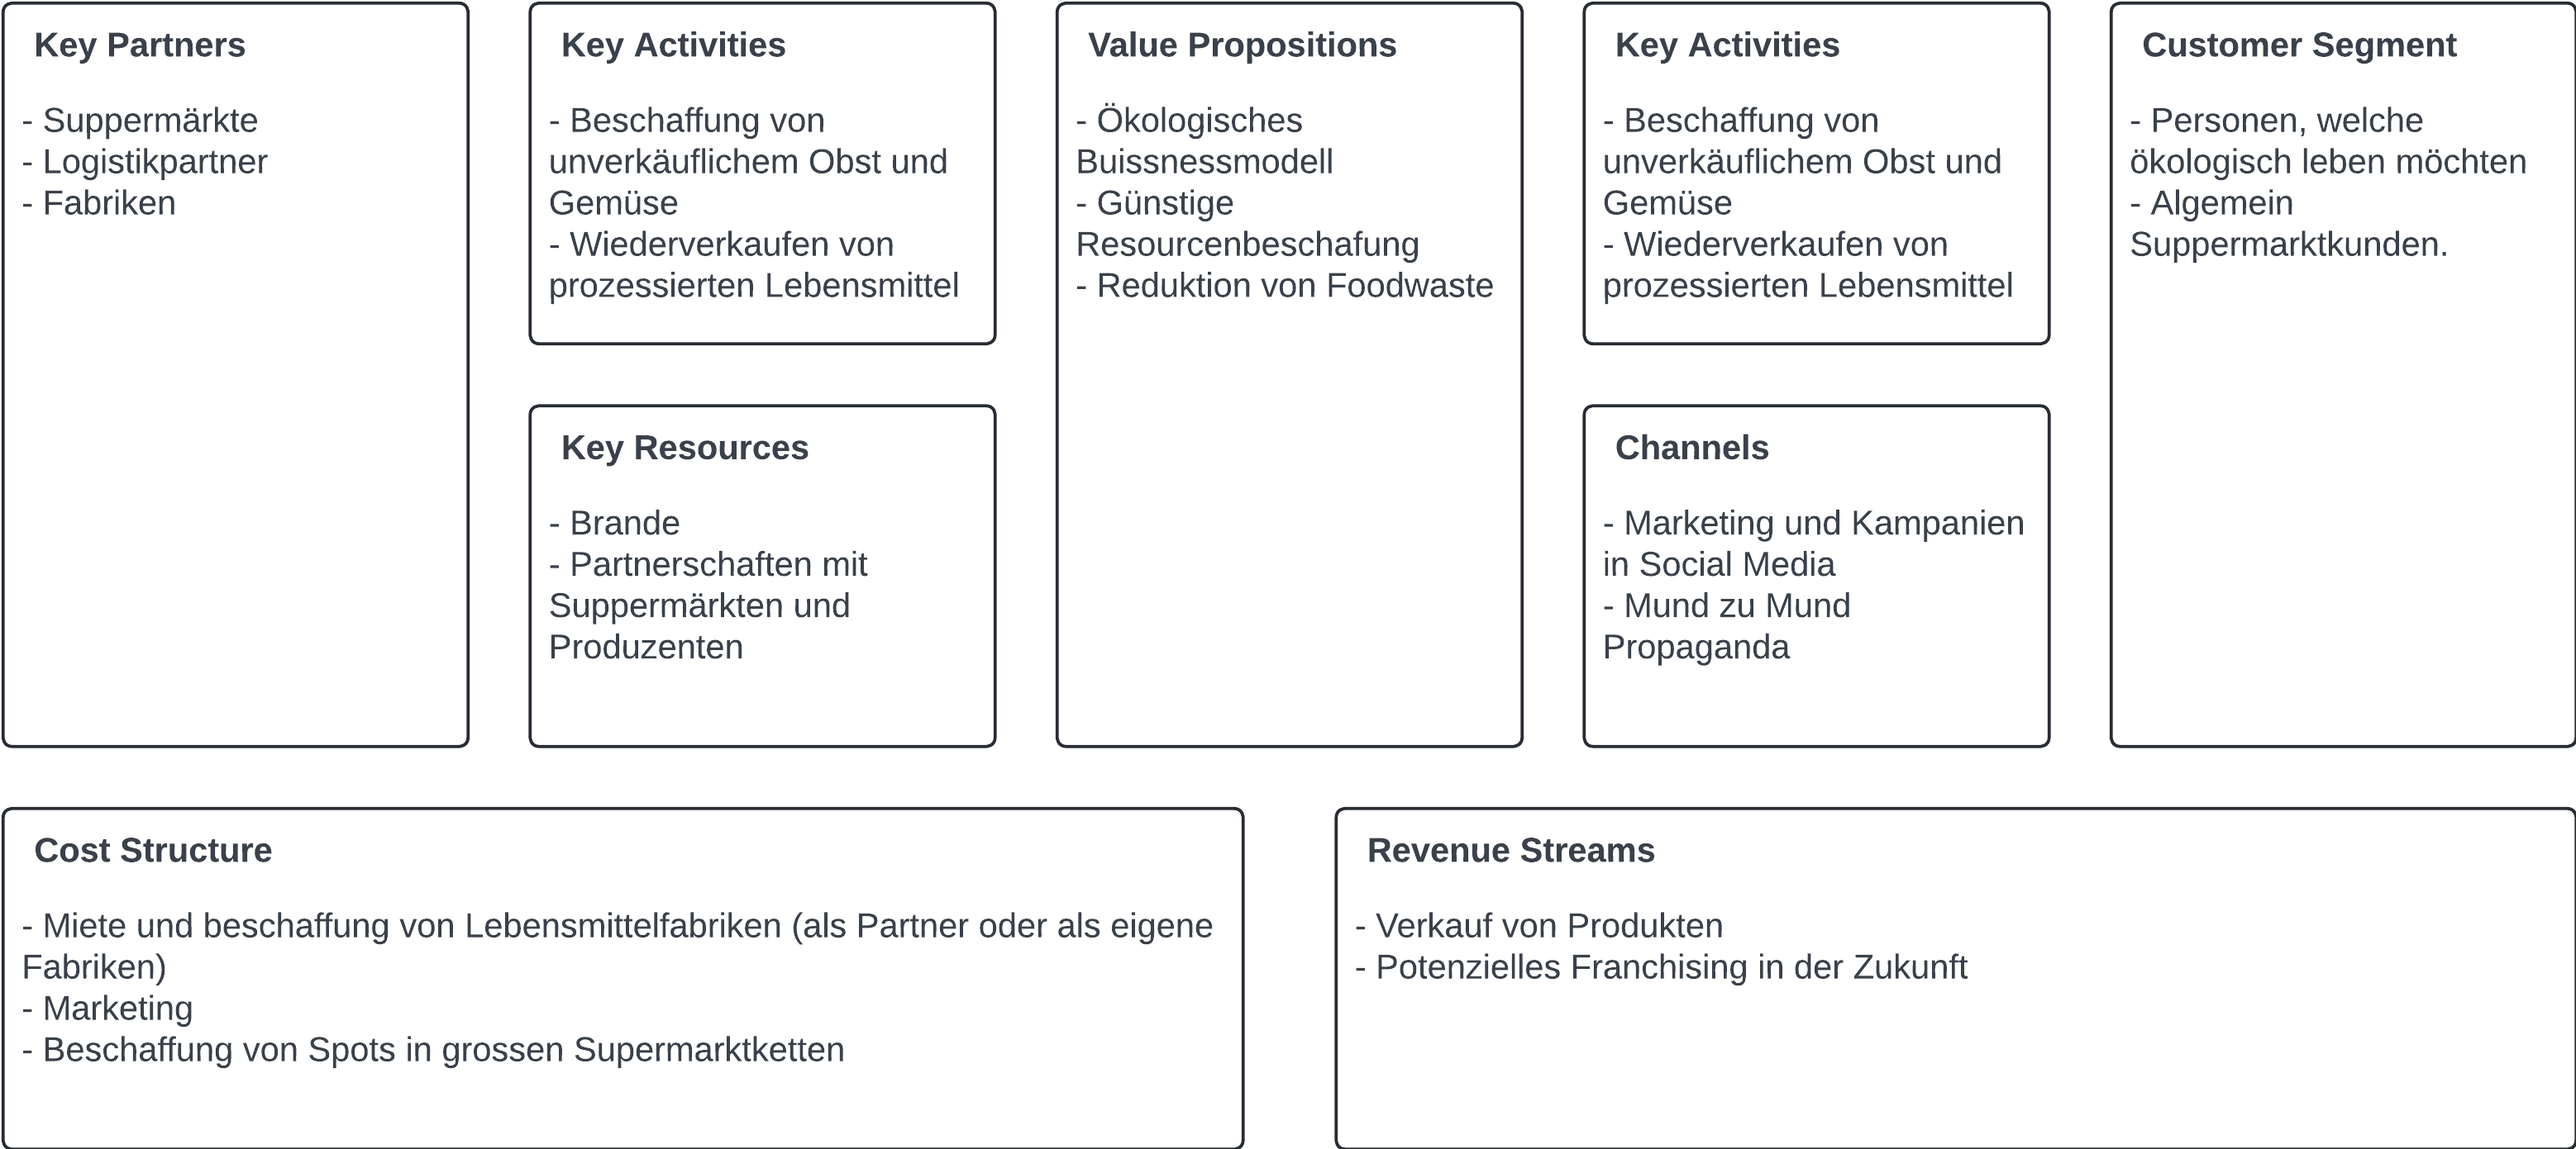
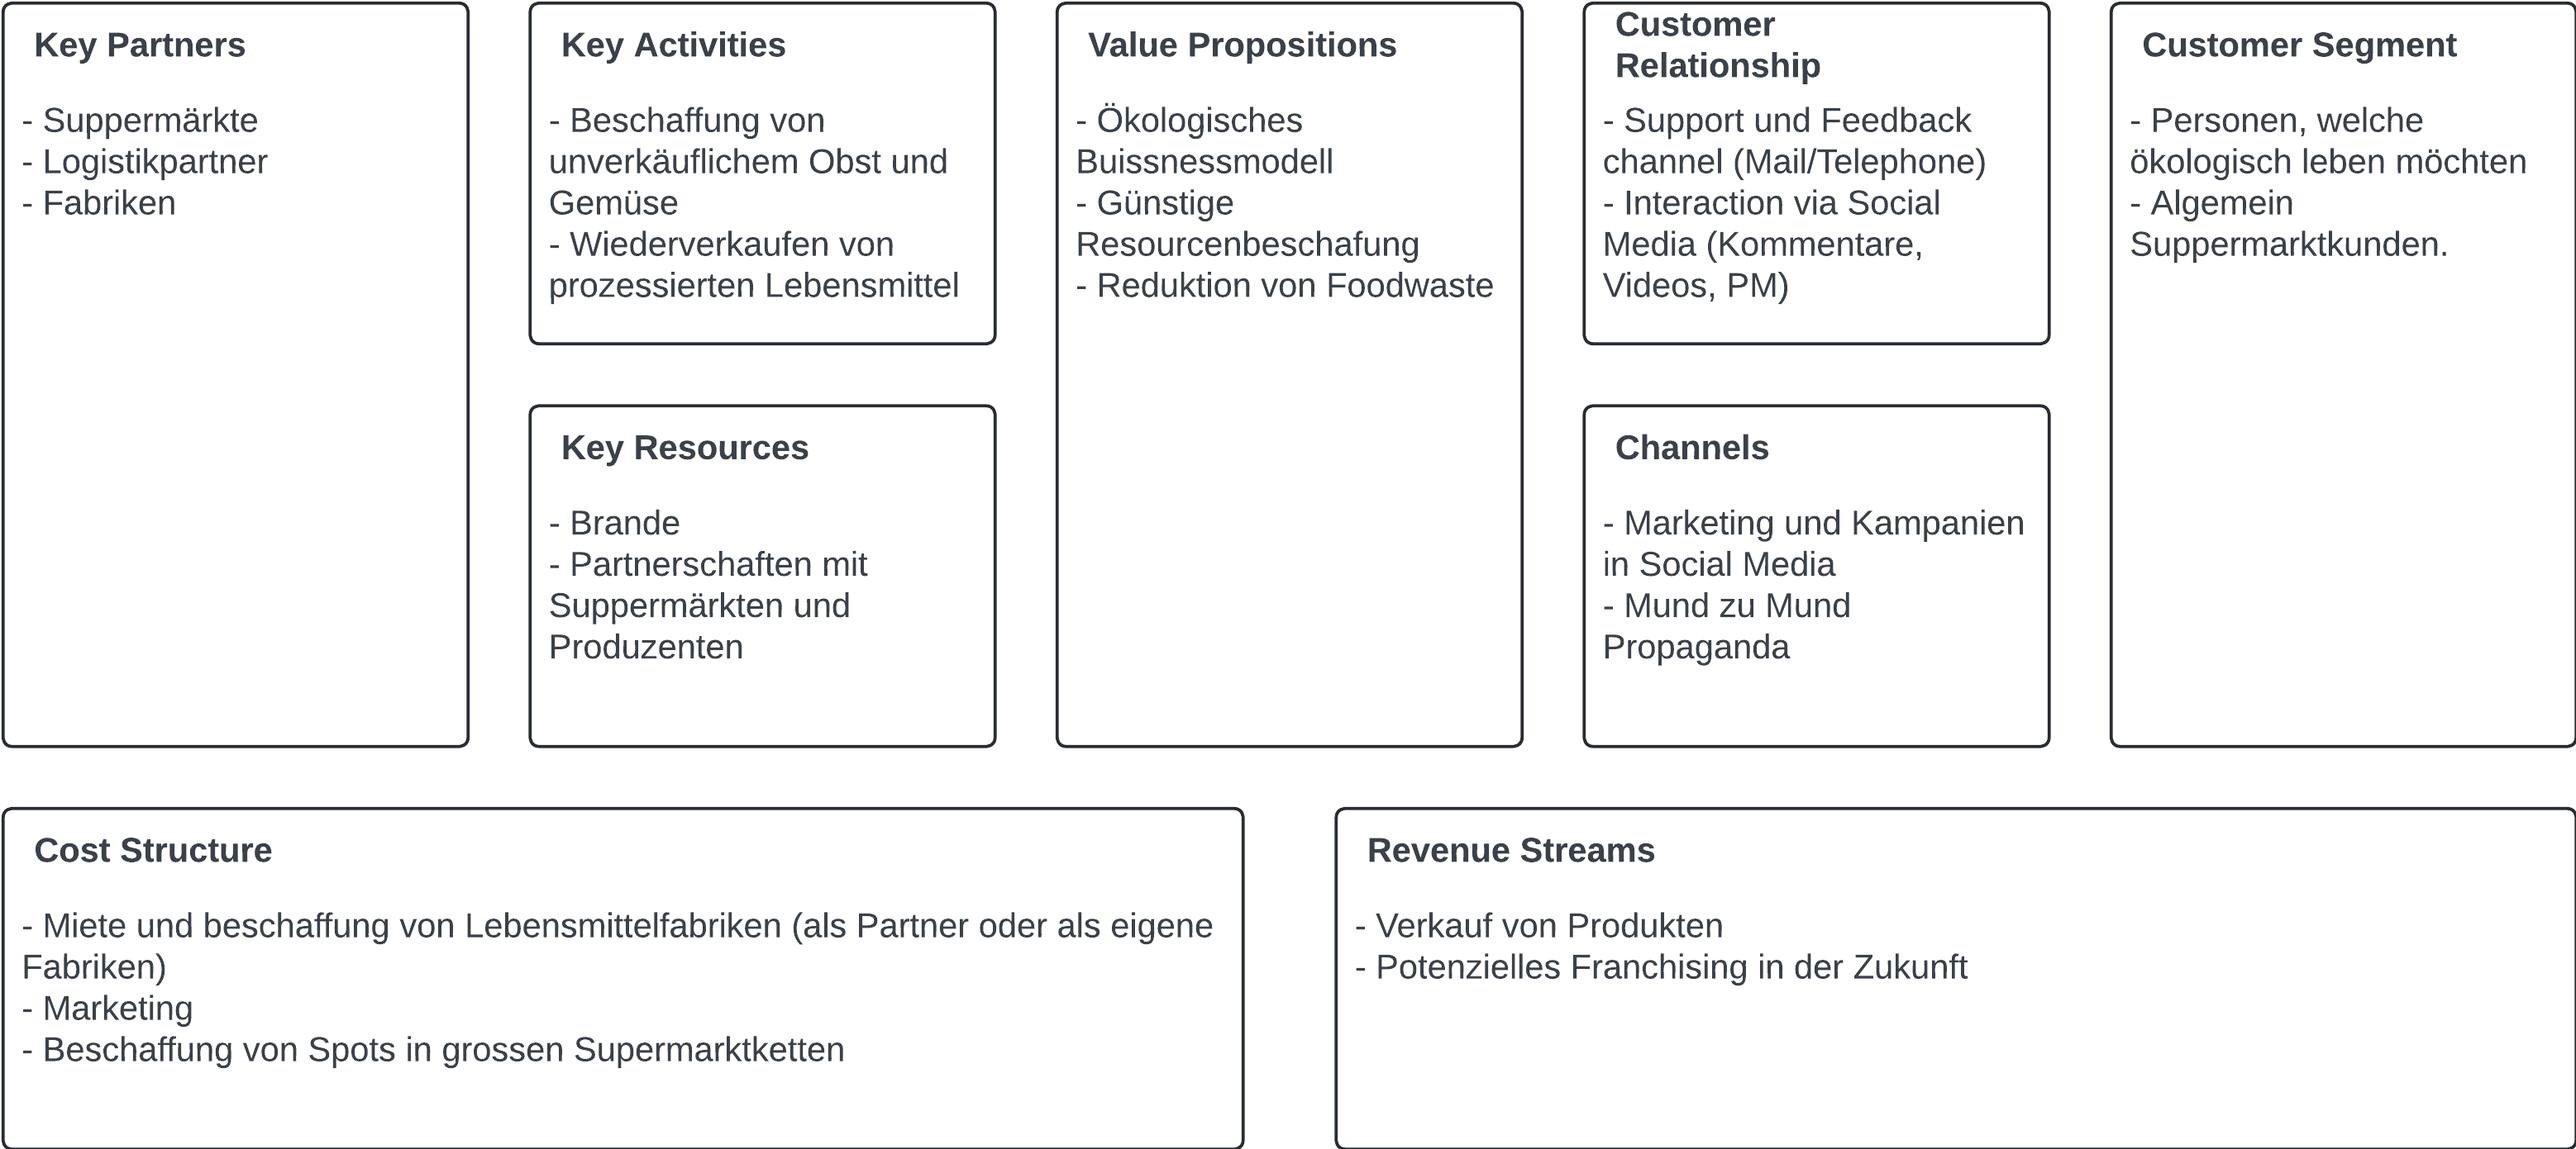
Update

Changed region(s): [[0.6226, 0.0, 0.7782, 0.2782]]

diff --git a/content/docs/lernjournal/16. September 2024.md b/content/docs/lernjournal/16. September 2024.md
@@ -46,6 +46,10 @@ Zu den Keyresourcen des Unternehmens gehört eine Brand, welche für nachhaltige
 
 Der grösste Mehrwert beim Produkt entsteht dadurch, dass die Herstellung umweltschonend ist. Und bei der Herstellung von den Produkten Obst und Gemüse vor dem Müll gerettet werden. Zudem darf man auch nicht vergessen, dass die Produkte welche nicht mehr verkauft werden können, grundsätzlich relativ günstig erwerbbar sein sollten, wodurch die Herstellungskosten gesenkt werden können, was die Gewinnmarche erhöht.
 
+### Customer Relationship
+Die Interaktion mit dem Kunden erfolgt über zwei verschiedene Kanäle. Zum einen ist das der Support- und Feedback-Kanal, über den der Kunde sein Feedback oder auch Probleme mitteilen kann. Dies geschieht telefonisch und per E-Mail.
+
+Eine weitere Interaktion findet jedoch auf Social Media statt. Dort wird ein Business-Account verwendet, um auf Anfragen von Kunden einzugehen und Marketing zu betreiben. Durch eine aktive Präsenz auf Social Media soll sichergestellt werden, dass potenzielle neue Kunden von dem Produkt erfahren.
 
 ### Channels
 
